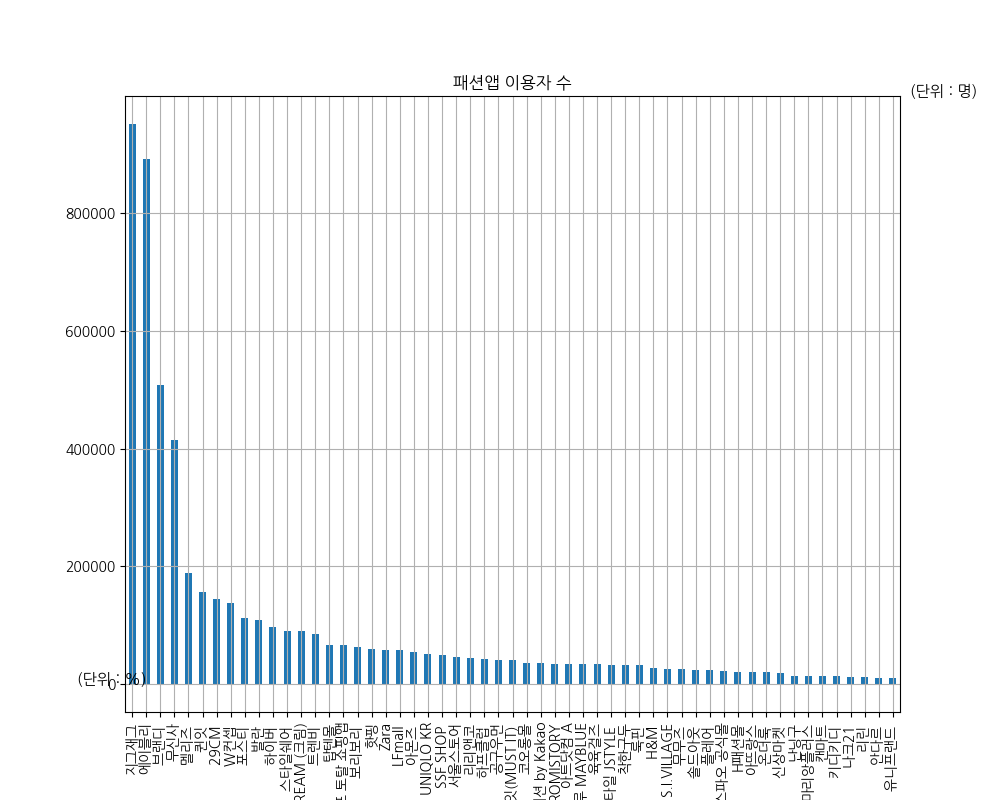
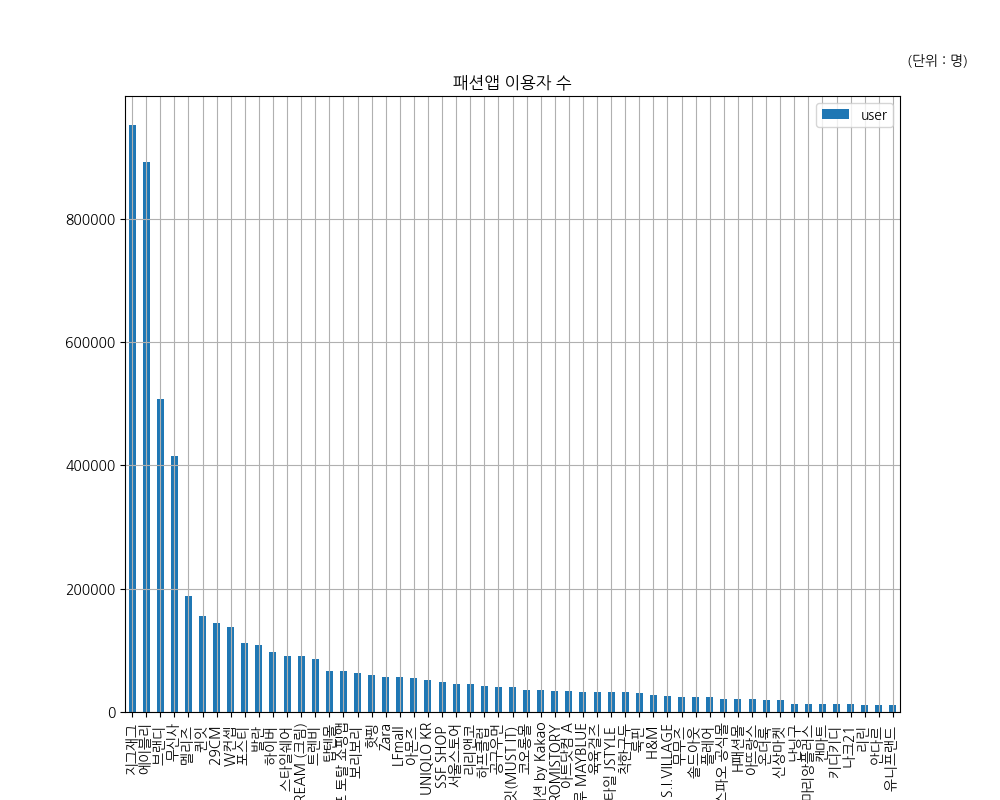
Analysis update

diff --git a/bigdata/analysis/intro.py b/bigdata/analysis/intro.py
@@ -2,7 +2,7 @@ import pandas as pd
 import sys
 import matplotlib.pyplot as plt
 from matplotlib import font_manager, rc
-from matplotlib import cm
+
 if sys.platform == 'darwin':
     path = '.....'
 elif sys.platform == 'win32':
@@ -14,47 +14,46 @@ rc('font', family=font_name)
 plt.rcParams['axes.unicode_minus'] = False
 plt.rcParams['font.family'] = 'NanumGothic'
 
-#연간 폐의류
+#연간 폐의류#
 trash = pd.read_csv('trash.csv')
 trash = trash.set_index('year')
 print(trash)
 
-tplt = trash['ton/day'].plot(kind='line', figsize=(10, 8), grid=True)
-tplt.text(4, 120, '(단위 : 톤)', ha='right', fontsize=11)
-tplt.legend(loc=2)
+trash['ton/day'].plot(kind='line', figsize=(10, 8), grid=True)
+plt.text(4, 7, '(단위 : 톤)')
+plt.legend(loc=2)
 plt.title('일간 폐의류량')
 plt.savefig("output1.png")
 
-#백화점
+#백화점#
 Dprofit = pd.read_csv('DepartmentProfit.csv')
 Dprofit = Dprofit.set_index('year')
 print(Dprofit)
 
-df = Dprofit.plot(kind='line', figsize=(10, 8), grid=True)
-df.text(1, 1, '(단위 : %)', ha='right', fontsize=11)
-df.legend(loc=2)
+Dprofit.plot(kind='line', figsize=(10, 8), grid=True)
 plt.title('백화점 방문객 증감률')
+plt.text(4, 7, '(단위 : %)')
+plt.legend(loc=2)
 plt.savefig("output2.png")
 
-#패션 앱 사용자 수
+#패션 앱 사용자 수#
 appuser = pd.read_csv('appuser.csv')
+appuser = appuser.loc[:,['appname', 'user']]
 appuser = appuser.set_index('appname')
 print(appuser)
 
-au1 = appuser['user'].plot(kind='bar', figsize=(10, 8), grid=True)
-au1.get_legend().set_visible(False)
-au1.text(60, 1000000, '(단위 : 명)', ha='right', fontsize=11)
+appuser.plot(kind='bar', figsize=(10, 8), grid=True)
 plt.title('패션앱 이용자 수')
+plt.text(55, 1050000, '(단위 : 명)')
 plt.savefig("output3.png")
 
 appuser2 = pd.read_csv('appuser.csv')
 appuser2 = appuser2.loc[:,['appname','share']]
 appuser2 = appuser2.set_index('appname')
 
-au2 = appuser2.plot(kind='bar', figsize=(10, 8), grid=True)
+appuser2.plot(kind='bar', figsize=(10, 8), grid=True)
 plt.title('패션앱 시장 점유율')
-au2.get_legend().set_visible(False)
-au2.text(60, 40, '(단위 : %)', ha='right', fontsize=11)
+plt.text(55, 40, '(단위 : %)')
 plt.savefig("output4.png")
 
 #온라인몰 유형별 매출액#
@@ -64,32 +63,32 @@ salesType = salesType.set_index('year')
 salesType = salesType/1000
 print(salesType)
 
-st = salesType.plot(kind='bar', figsize=(10, 8), grid=True)
-st.text(5, 18000, '(단위 : 십억)', ha='right', fontsize=11)
-st.legend(loc=2)
+salesType.plot(kind='bar', figsize=(10, 8), grid=True)
+plt.text(4, 18000, '(단위 : 십억)')
+plt.legend(loc=2)
 plt.title('판매 채널별 거래액')
 plt.savefig("output5.png")
 
-#상품범위별
+#상품범위별#
 productType = pd.read_csv('productType.csv')
 productType = productType.set_index('year')
 productType = productType/1000
 print(productType)
 
-pt = productType.plot(kind='bar', figsize=(10, 8), grid=True)
-pt.text(5, 18000, '(단위 : 십억)', ha='right', fontsize=11)
-pt.legend(loc=2)
+productType.plot(kind='bar', figsize=(10, 8), grid=True)
+plt.text(4, 18000, '(단위 : 십억)')
+plt.legend(loc=2)
 plt.title('상점 규모별 거래액')
 plt.savefig("output6.png")
 
-#운영유형별
+#운영유형별#
 businessType = pd.read_csv('businessType.csv')
 businessType = businessType.set_index('year')
 businessType = businessType/1000
 print(businessType)
 
-bt = businessType.plot(kind='bar', figsize=(10, 8), grid=True)
-bt.text(5, 18000, '(단위 : 십억)', ha='right', fontsize=11)
-bt.legend(loc=2)
+businessType.plot(kind='bar', figsize=(10, 8), grid=True)
+plt.text(4, 18000, '(단위 : 십억)')
+plt.legend(loc=2)
 plt.title('운영 유형별 거래액')
 plt.savefig("output7.png")
